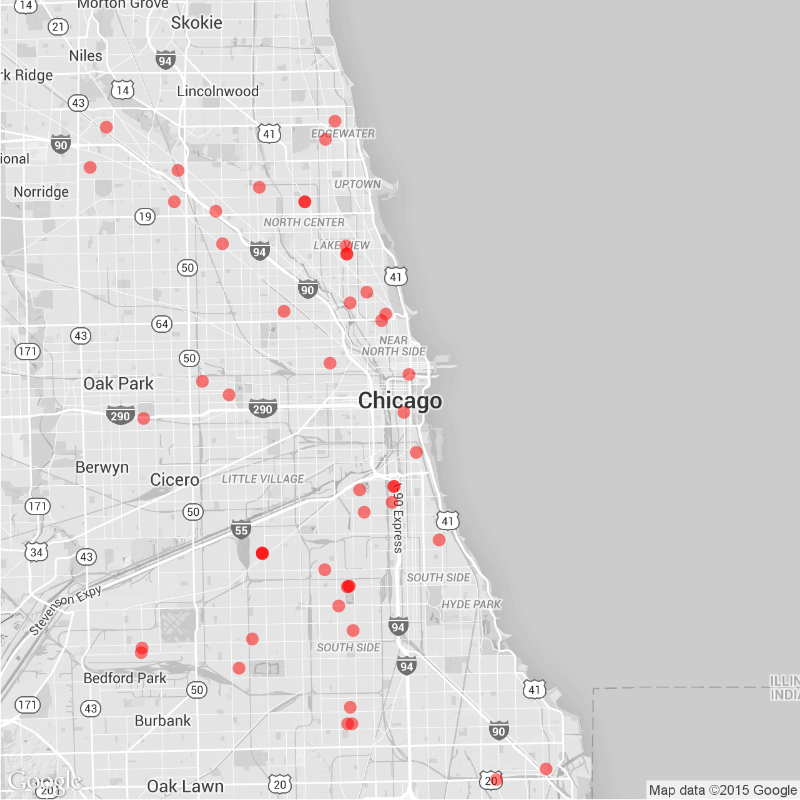
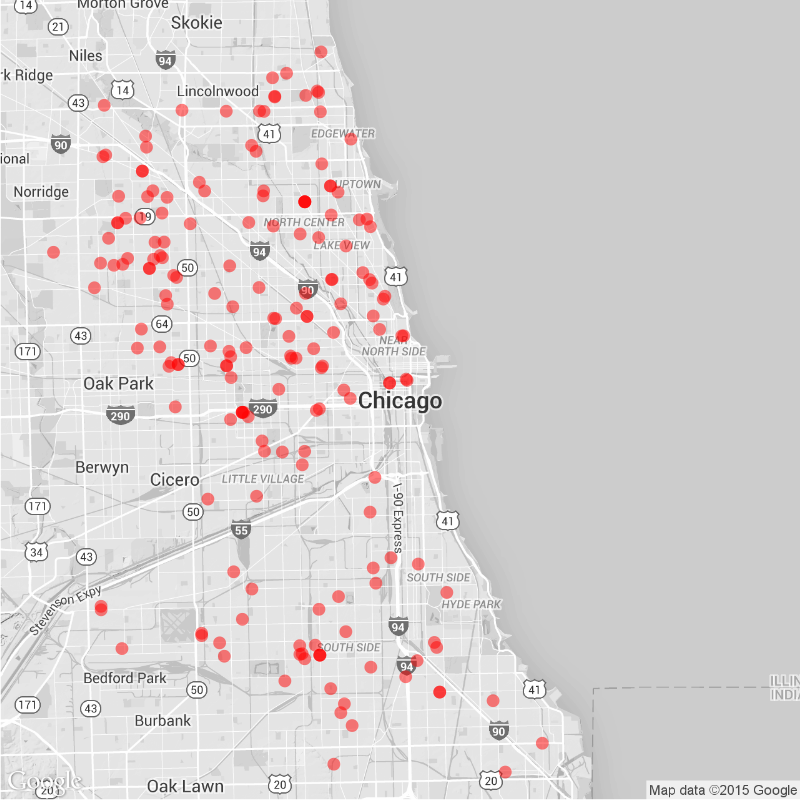
Daily Maps

diff --git a/daily.md b/daily.md
@@ -15,22 +15,22 @@ tags: Chicago NYC weekly daily rats
 
 ### Daily
 
-Yesterday (September 13), there were 53 calls to Chicago's 311 line about rats.
+Yesterday (September 14), there were 197 calls to Chicago's 311 line about rats.
 ![Chicago rat calls to 311 weekly map]({{ site.cityimages }}/daily/Chicago_Rat_Map_Daily.png)
 
 ### Weekly
-Between September 07 and September 13, there were 948 calls to Chicago's 311 line about rats. The average number of weekly calls for this time of year is 866.
+Between September 08 and September 14, there were 1055 calls to Chicago's 311 line about rats. The average number of weekly calls for this time of year is 866.
 ![Chicago rat calls to 311 weekly map]({{ site.cityimages }}/daily/Chicago_Rat_Map_Weekly.png)
 ***
 # New York City <a id="nyc"><a>
 
 ### Daily
 
-Yesterday (September 13), there were 0 calls to New York City's 311 line about rats.
+Yesterday (September 14), there were 0 calls to New York City's 311 line about rats.
 ![NYC rat calls to 311 weekly map]({{ site.cityimages }}/daily/NYC_Rat_Map_Daily.png)
 
 ### Weekly
-Between September 07 and September 13, there were 0 calls to New York City's 311 line about rats. The average number of weekly calls for this time of year is 250.
+Between September 08 and September 14, there were 0 calls to New York City's 311 line about rats. The average number of weekly calls for this time of year is 250.
 ![NYC rat calls to 311 weekly map]({{ site.cityimages }}/daily/NYC_Rat_Map_Weekly.png)
 
 Each red dot represents one call about a rat seen in that location. The dots are transparent, so multiple calls from one location will be seen as a solid dot. The usual caveats apply: more calls do not necessarily mean that there are more rats in that location than other parts of the city. A cluster of dots could indicate that one resident is unusually vocal about rodents in his or her neighborhood. Also, more densely populated neighborhoods tend to make more calls to 311.
